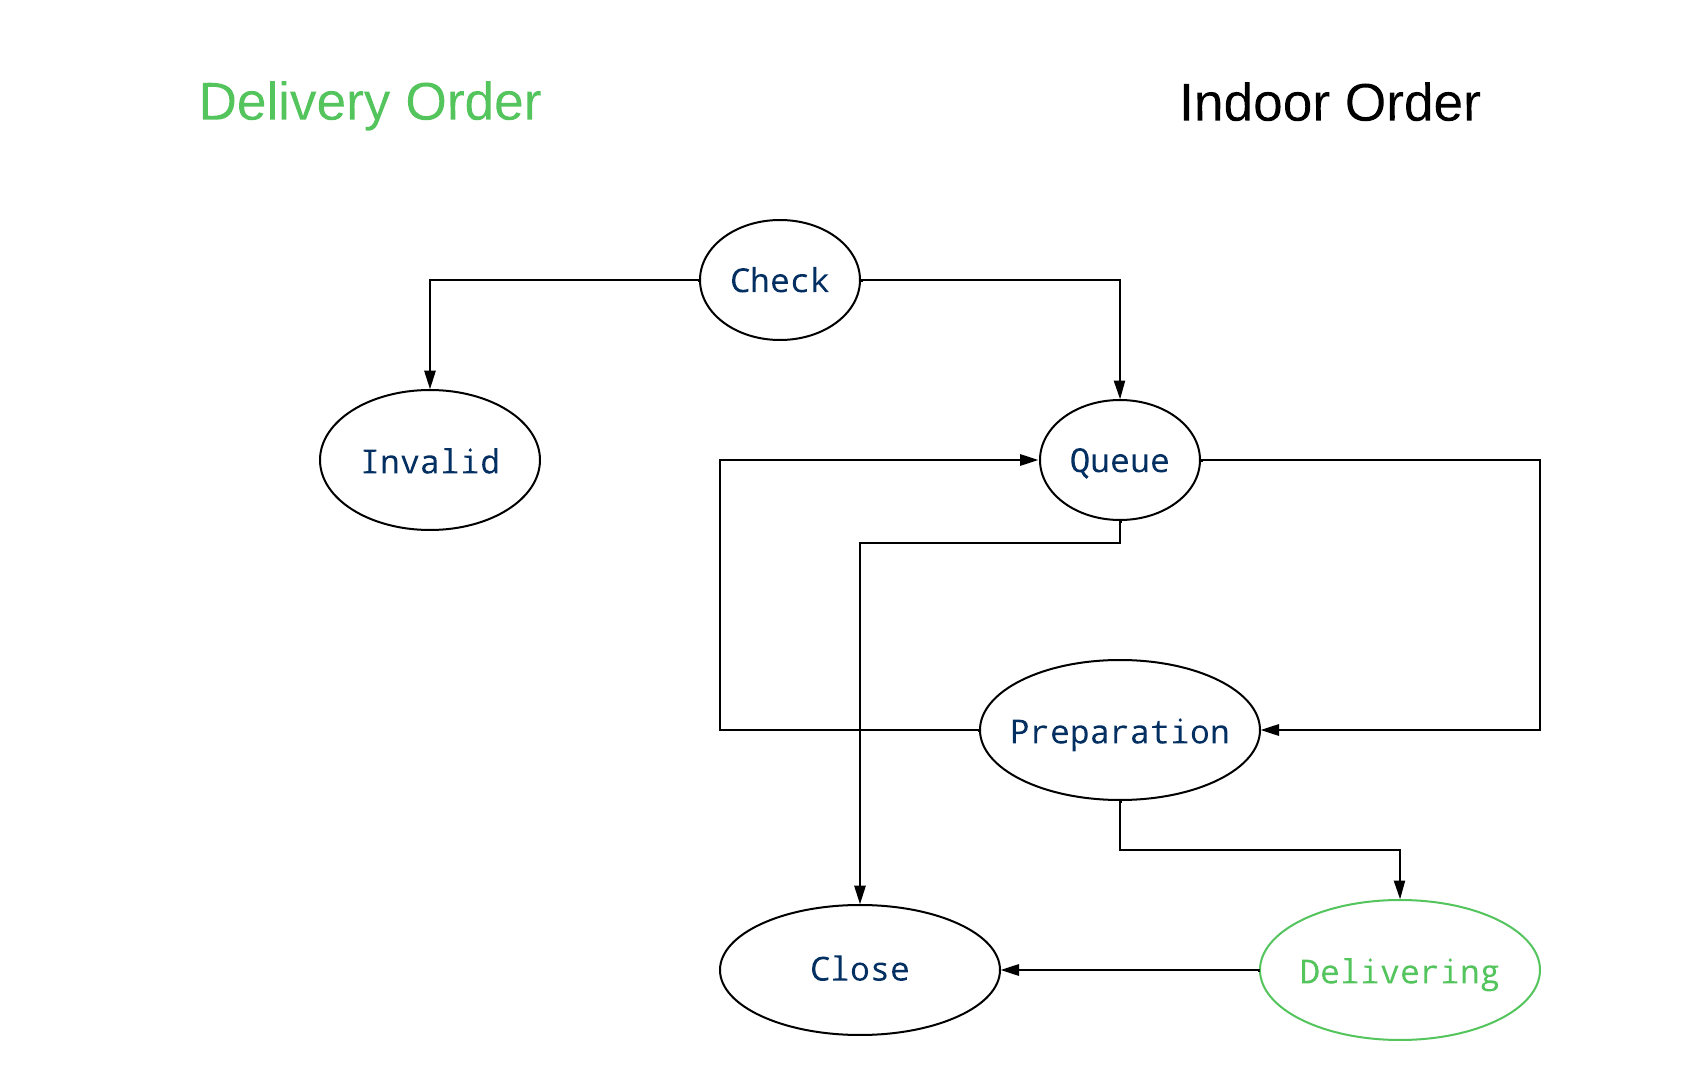
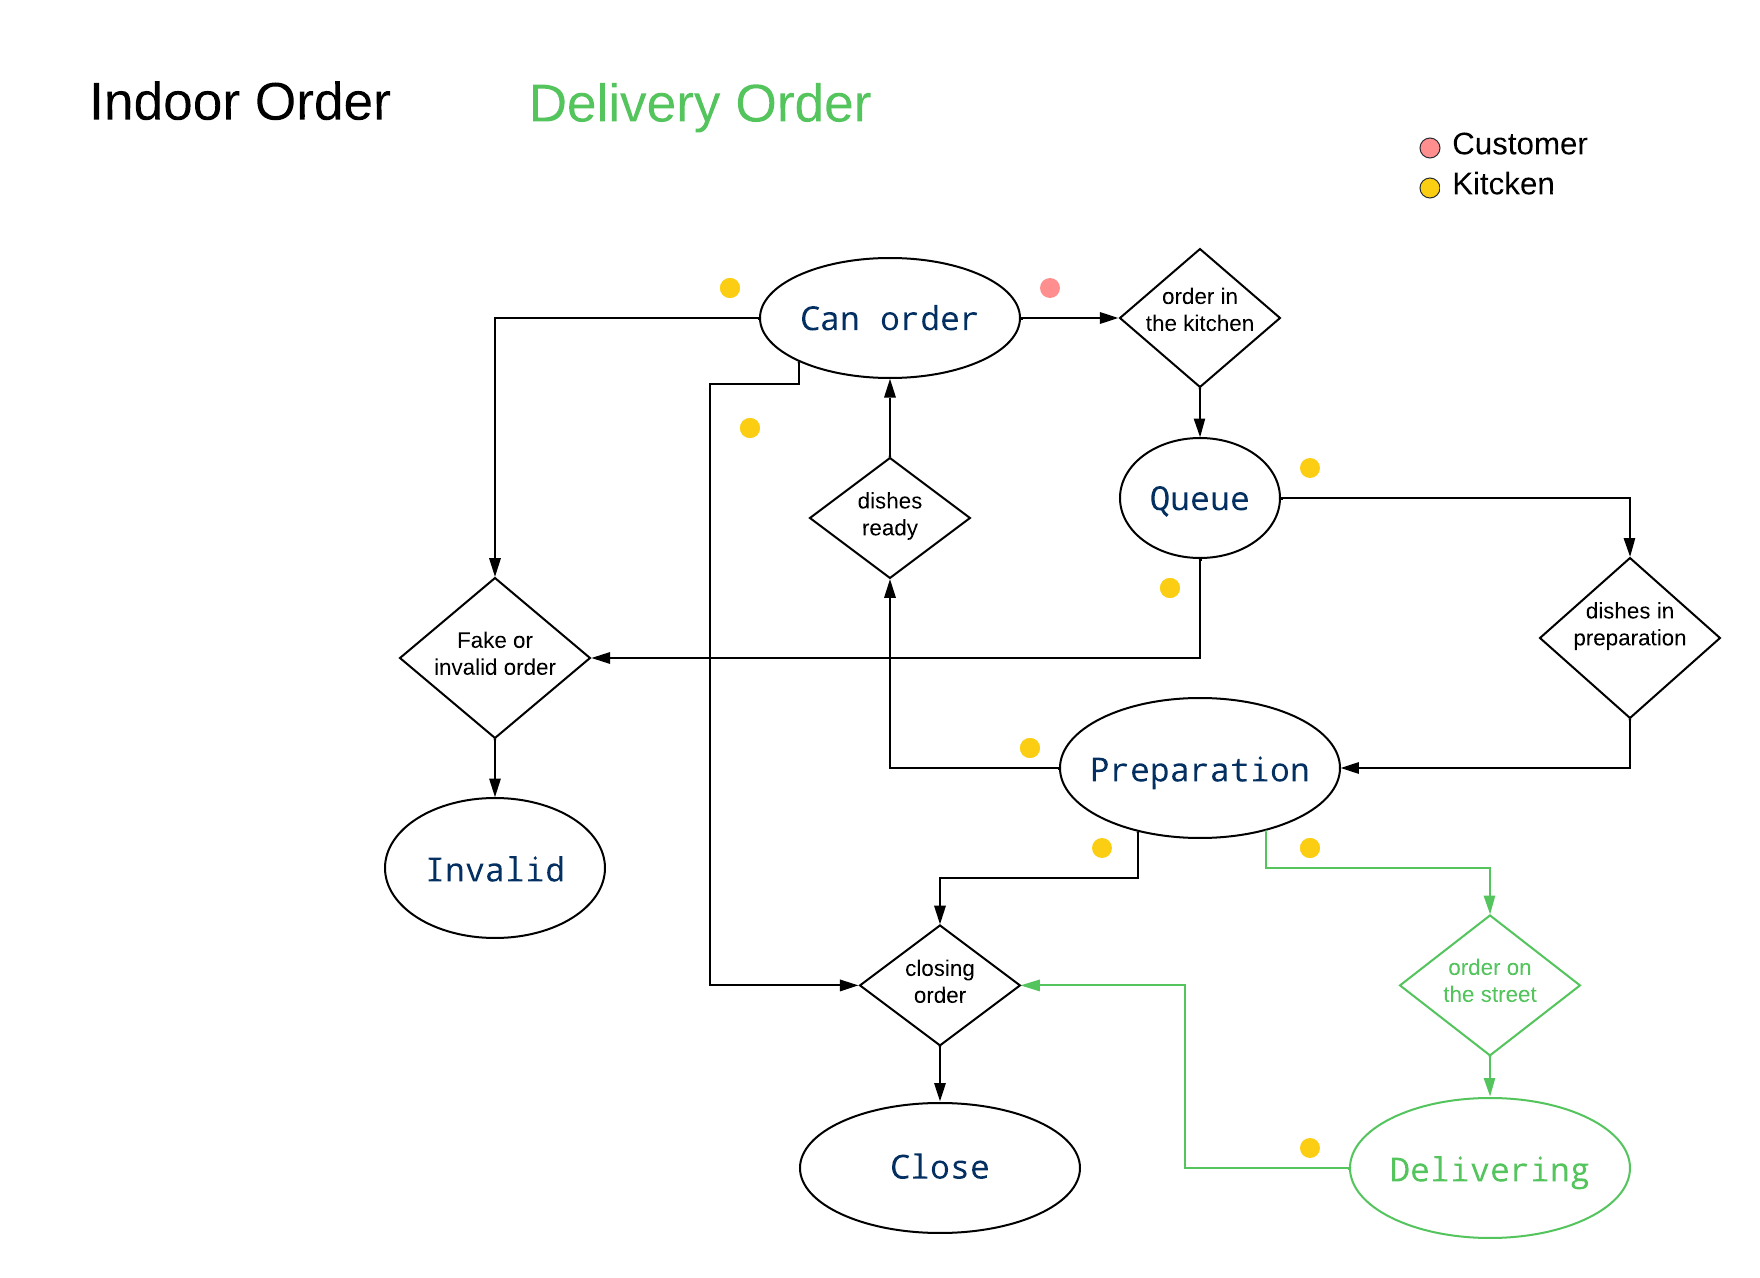
Fix order entity

diff --git a/src/Module/Order/Entity/OrderEntity.php b/src/Module/Order/Entity/OrderEntity.php
@@ -20,7 +20,7 @@ class OrderEntity implements EntityInterface {
     /**
      * @var string
      */
-    const STATUS_CHECK = 'check';
+    const STATUS_CHECK = 'can-order';
 
     /**
      * @var string
@@ -63,15 +63,17 @@ class OrderEntity implements EntityInterface {
     const FINITE_STATE_MACHINE = [
         OrderEntity::STATUS_CHECK => [
             OrderEntity::STATUS_QUEUE,
-            OrderEntity::STATUS_INVALID
+            OrderEntity::STATUS_INVALID,
+            OrderEntity::STATUS_CLOSE
         ],
         OrderEntity::STATUS_QUEUE => [
             OrderEntity::STATUS_PREPARATION,
-            OrderEntity::STATUS_CLOSE
+            OrderEntity::STATUS_INVALID,
         ],
         OrderEntity::STATUS_PREPARATION => [
             OrderEntity::STATUS_QUEUE,
-            OrderEntity::STATUS_DELIVERING
+            OrderEntity::STATUS_CHECK,
+            OrderEntity::STATUS_CLOSE
         ],
         OrderEntity::STATUS_DELIVERING => [
             OrderEntity::STATUS_CLOSE

diff --git a/src/Module/Order/repositories.php b/src/Module/Order/repositories.php
@@ -241,6 +241,7 @@ return function (ContainerBuilder $containerBuilder) {
                     OrderEntity::STATUS_PREPARATION,
                     OrderEntity::STATUS_DELIVERING,
                     OrderEntity::STATUS_INVALID,
+                    OrderEntity::STATUS_CLOSE
                 ]
             ]));
             $inputFilter->add($input);
